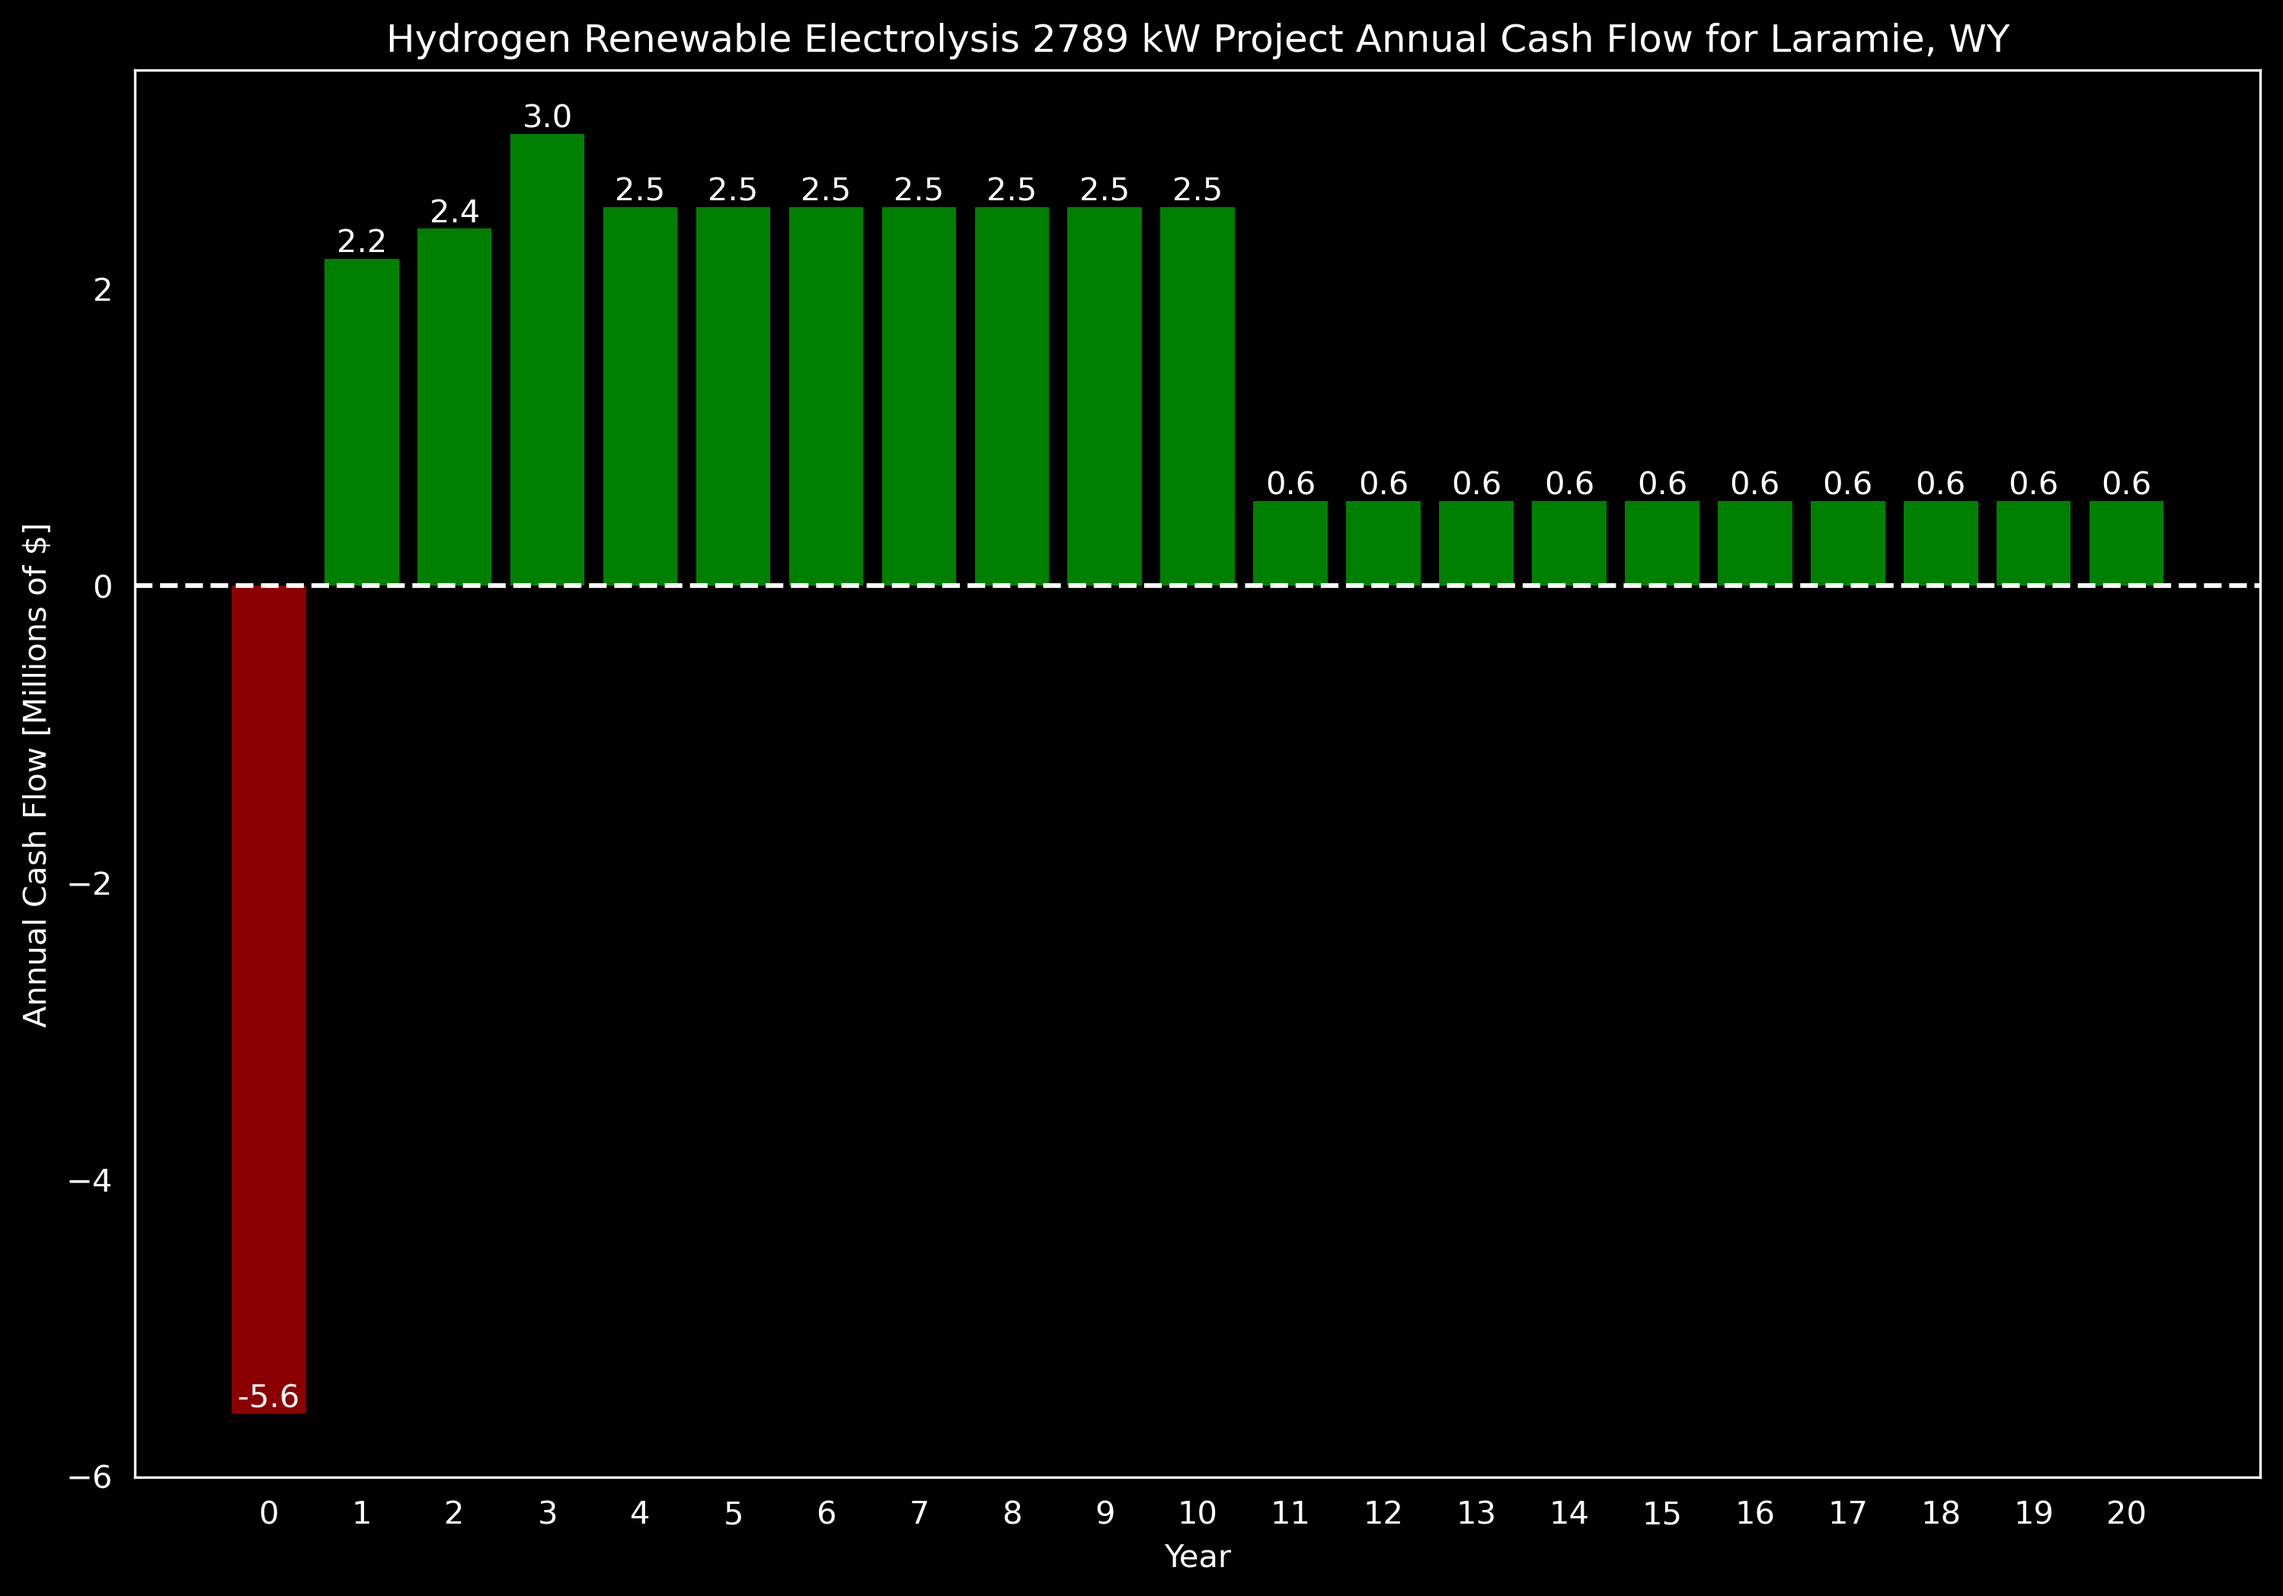
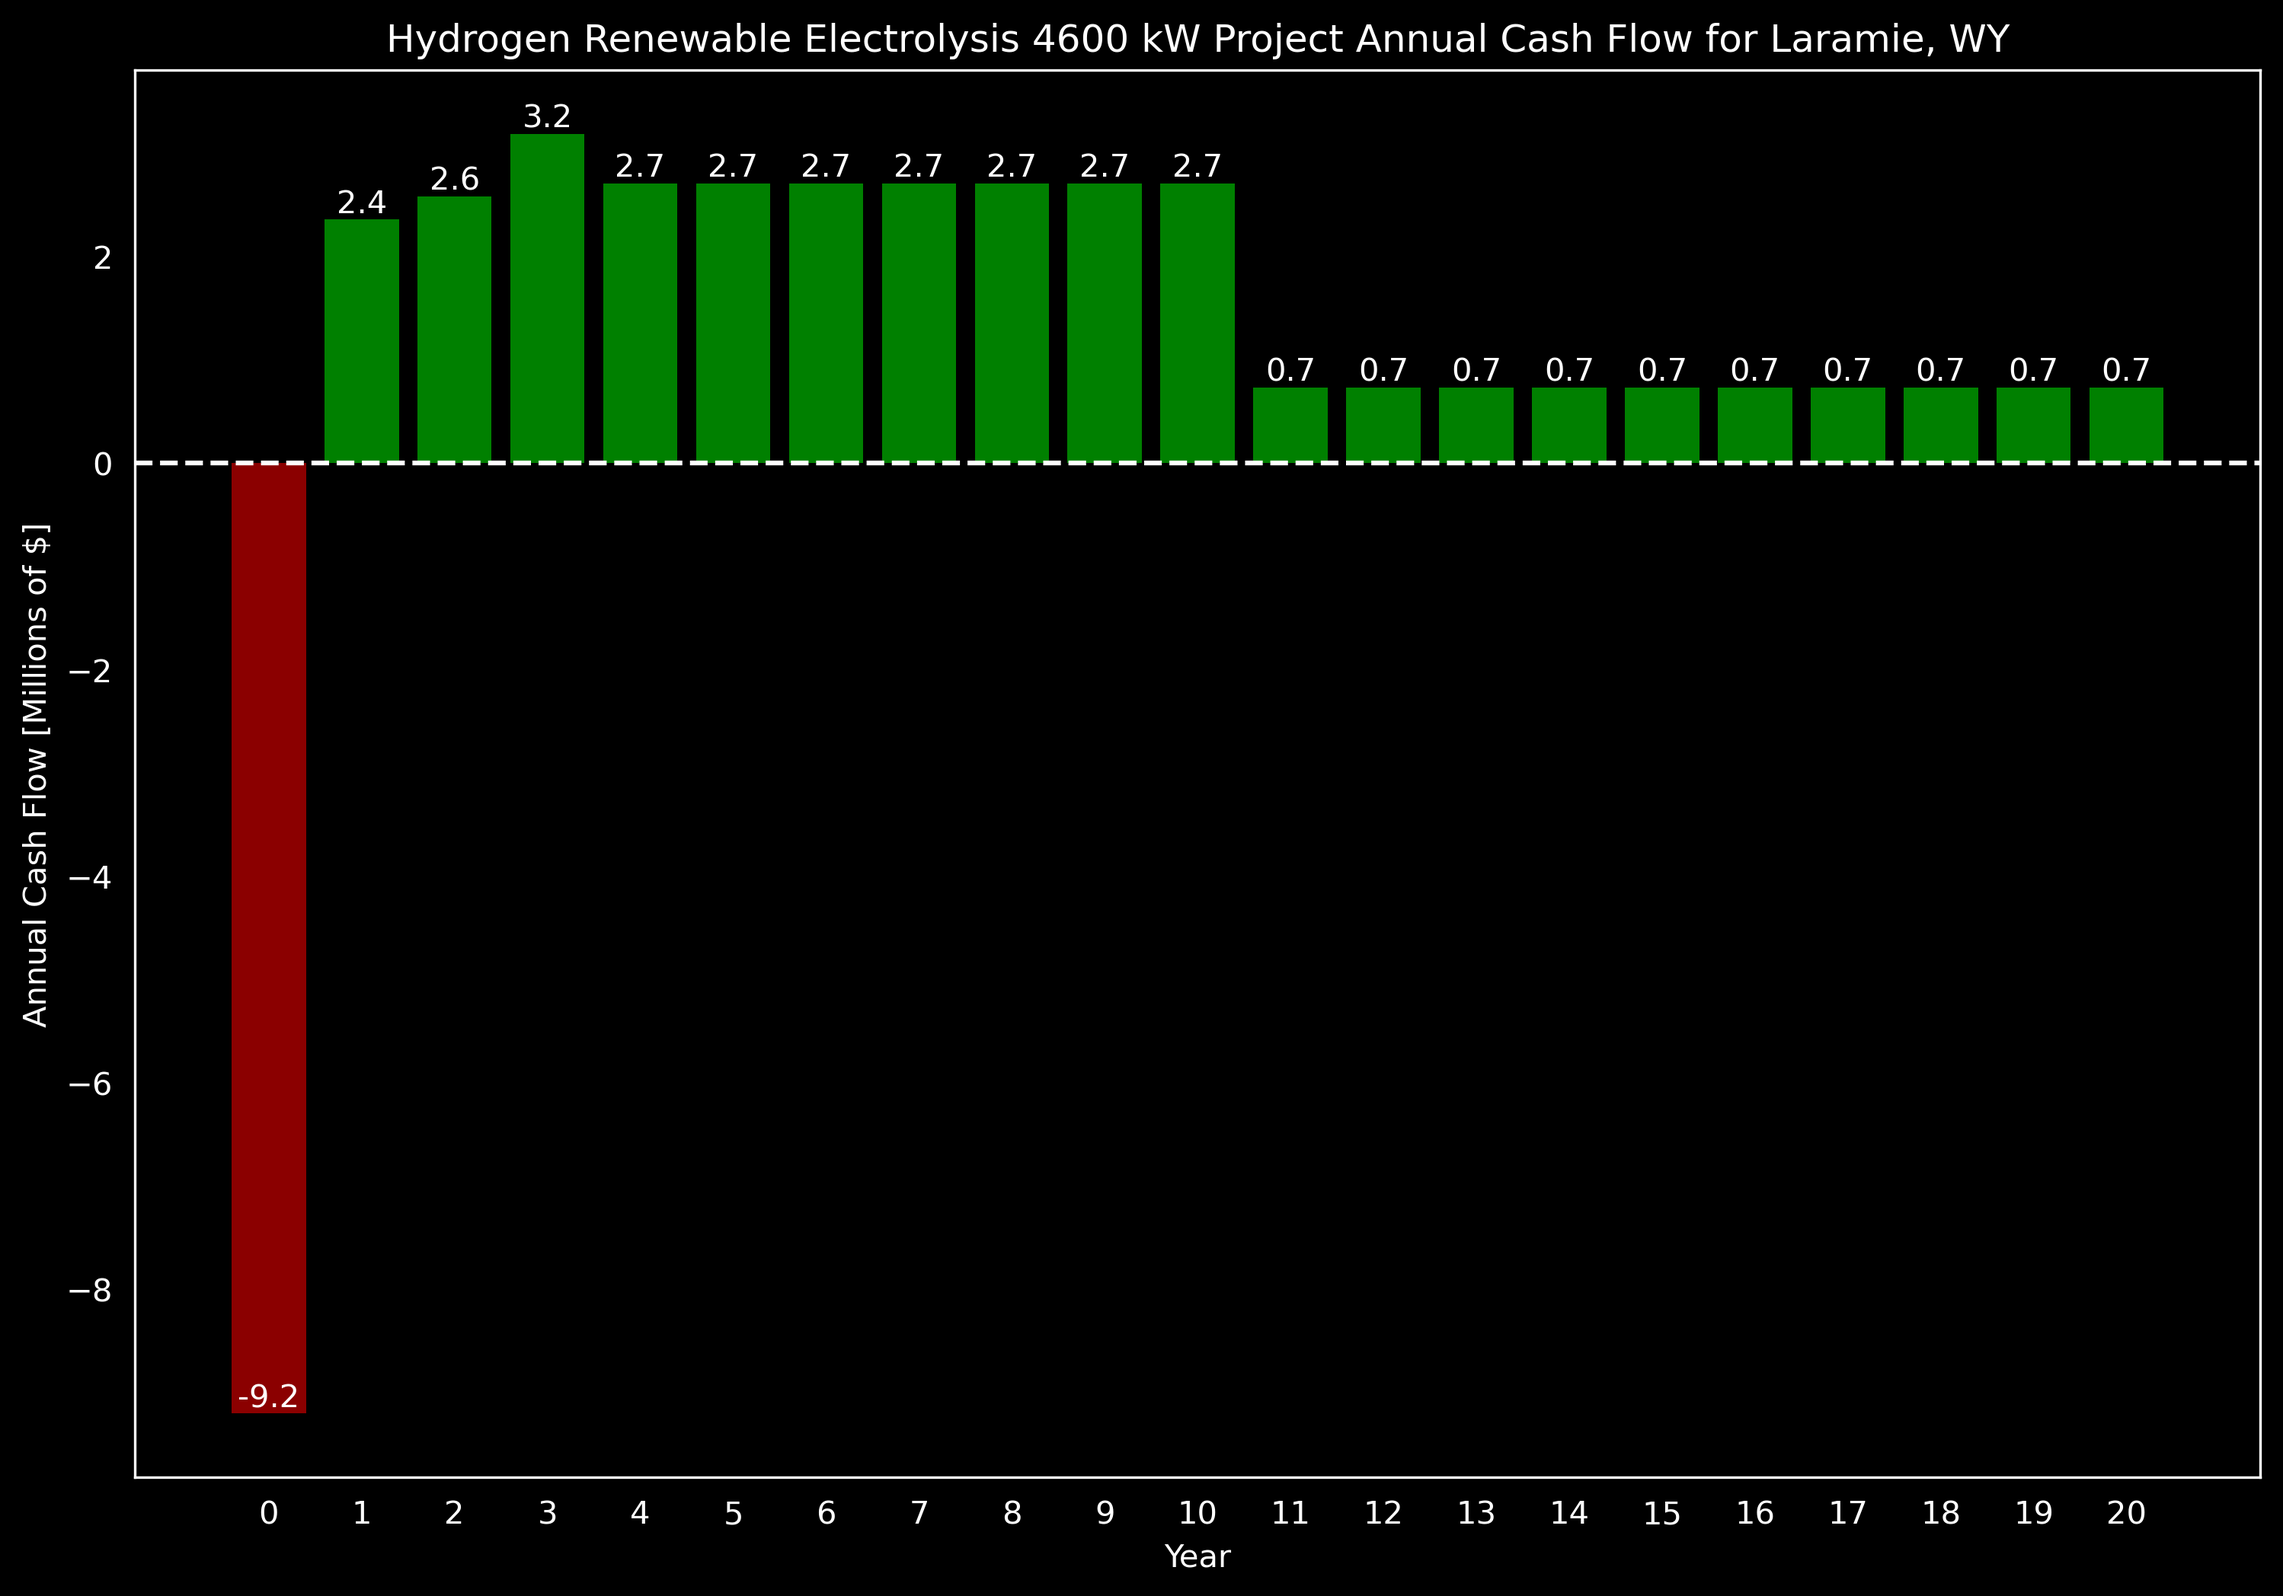
removed electrolyzer efficiency from default electrolyzer size

diff --git a/h2_renewable_electrolysis_project_simulator.py b/h2_renewable_electrolysis_project_simulator.py
@@ -153,7 +153,7 @@ electrolyzer_efficiency = hydrogen_energy_density / electricity_input_per_kg_hyd
 default_electrolyzer_plant_size_kw = round(
     (wind_gen_capacity + solar_pv_gen_capacity)
     * yearly_capacity_factor_combined.mean()
-    * electrolyzer_efficiency
+    # * electrolyzer_efficiency # may not need to multiply by efficiency
 )
 print("Assumed Renewable Generation Capacity:", wind_gen_capacity)
 print(f"Wind [kW]: {wind_gen_capacity}")
